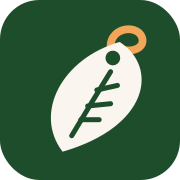
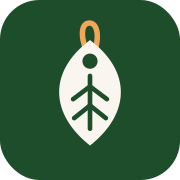
Updates

Changed region(s): [[0.2778, 0.1111, 0.8333, 0.8611], [0.5278, 0.75, 0.5556, 0.7778]]

diff --git a/src/app/pricing/page.tsx b/src/app/pricing/page.tsx
@@ -1,0 +1,95 @@
+import type { Metadata } from "next";
+import Link from "next/link";
+import { supabaseServer, supabaseAdmin } from "@/lib/supabase/server";
+import PlanButtons from "./PlanButtons";
+
+export const dynamic = "force-dynamic";
+export const metadata: Metadata = {
+  title: "Pricing",
+  description: "Your first three drops are free. After that, $10 a month or $60 a year, flat. Groveline never takes a cut of a sale.",
+  alternates: { canonical: "/pricing" },
+};
+
+const included = [
+  "Unlimited drops, with up to 10 photos each",
+  "Your own shop page and link, more than one shop if you need it",
+  "Automatic emails to your followers and subscribers every time you post",
+  "Card payments straight to your bank, with a hold at reservation and charge at pickup",
+  "Shipping on any drop, paid by card, charged when you mark it shipped",
+  "Waitlists when you sell out, pickup reminders to buyers the day before",
+  "A printable pickup sheet and a spreadsheet for every drop",
+  "Live counts so nobody has to ask what's left",
+];
+
+const faq = [
+  ["Do I need to pay to try it?", "No. Post three drops on the house, no card required. If it works for you, pick a plan then."],
+  ["Do you take a cut of my sales?", "Never. Cash or card, big or small, the sale is yours. The subscription is the whole bill."],
+  ["What about card processing fees?", "Stripe charges its normal processing fee on card payments, about 2.9% plus 30 cents, the same as any card reader at a market. That comes out of the seller's side. Groveline adds nothing on top."],
+  ["Can I cancel?", "Any time, from your account settings. You keep access through the end of what you paid for."],
+  ["Is buying free?", "Always. Buyers never pay Groveline anything, and they don't need an account."],
+];
+
+export default async function PricingPage() {
+  const supabase = await supabaseServer();
+  const {
+    data: { user },
+  } = await supabase.auth.getUser();
+  let subscribed = false;
+  if (user) {
+    const { data: b } = await supabaseAdmin().from("billing").select("subscription_status").eq("profile_id", user.id).maybeSingle();
+    subscribed = ["active", "trialing", "past_due"].includes(b?.subscription_status ?? "none");
+  }
+  const stripeOn = !!process.env.STRIPE_SECRET_KEY && !!(process.env.STRIPE_PRICE_ID_MONTHLY || process.env.STRIPE_PRICE_ID);
+  const yearly = !!process.env.STRIPE_PRICE_ID_YEARLY;
+
+  return (
+    <div className="mx-auto max-w-4xl px-4 py-12">
+      <div className="max-w-2xl">
+        <h1 className="text-4xl font-semibold">Simple, and it stays that way</h1>
+        <p className="mt-4 text-lg">
+          Your first three drops are free. After that it&apos;s one flat price, and we never take a cut of what you
+          sell. Buying is free for everyone, always.
+        </p>
+      </div>
+
+      <div className="mt-10">
+        {stripeOn ? (
+          <PlanButtons loggedIn={!!user} subscribed={subscribed} yearlyAvailable={yearly} />
+        ) : (
+          <div className="tag-card p-6">
+            <p className="font-semibold">Plans open soon.</p>
+            <p className="mt-1 text-sm text-muted">Everything is free while we get set up. Post away.</p>
+          </div>
+        )}
+      </div>
+
+      <section className="mt-12" aria-labelledby="included">
+        <h2 id="included" className="text-2xl font-semibold">What a plan gets you</h2>
+        <ul className="mt-4 grid gap-2 sm:grid-cols-2">
+          {included.map((i) => (
+            <li key={i} className="flex gap-3">
+              <span className="mt-2 h-2 w-2 shrink-0 rounded-full bg-leaf" aria-hidden="true" />
+              <span>{i}</span>
+            </li>
+          ))}
+        </ul>
+      </section>
+
+      <section className="mt-12" aria-labelledby="pricing-faq">
+        <h2 id="pricing-faq" className="text-2xl font-semibold">Things people ask</h2>
+        <div className="mt-4 grid gap-4 sm:grid-cols-2">
+          {faq.map(([q, a]) => (
+            <div key={q} className="tag-card p-5">
+              <h3 className="font-semibold">{q}</h3>
+              <p className="mt-2 text-muted">{a}</p>
+            </div>
+          ))}
+        </div>
+      </section>
+
+      <p className="mt-10 text-sm text-muted">
+        Not selling? <Link href="/browse" className="text-grove underline">Go see what&apos;s for sale</Link>.
+      </p>
+    </div>
+  );
+}

diff --git a/src/app/pricing/PlanButtons.tsx b/src/app/pricing/PlanButtons.tsx
@@ -1,0 +1,80 @@
+"use client";
+import { useState } from "react";
+import { useRouter } from "next/navigation";
+import { useToast } from "@/components/Toast";
+
+export default function PlanButtons({
+  loggedIn,
+  subscribed,
+  yearlyAvailable,
+}: {
+  loggedIn: boolean;
+  subscribed: boolean;
+  yearlyAvailable: boolean;
+}) {
+  const [promo, setPromo] = useState("");
+  const [busy, setBusy] = useState<"month" | "year" | null>(null);
+  const toast = useToast();
+  const router = useRouter();
+
+  async function go(interval: "month" | "year") {
+    if (!loggedIn) {
+      router.push("/login?mode=register");
+      return;
+    }
+    setBusy(interval);
+    const res = await fetch("/api/stripe/subscribe", {
+      method: "POST",
+      headers: { "Content-Type": "application/json" },
+      body: JSON.stringify({ interval, promo }),
+    });
+    setBusy(null);
+    const data = await res.json().catch(() => ({}));
+    if (data.url) window.location.href = data.url;
+    else toast(data.error || "Couldn't start checkout. Try again.", "error");
+  }
+
+  if (subscribed) {
+    return (
+      <div className="tag-card p-6 text-center">
+        <p className="font-semibold text-grove">You&apos;re already on a plan.</p>
+        <p className="mt-1 text-sm text-muted">Switch, update your card, or cancel from your account settings.</p>
+        <a href="/dashboard/settings" className="btn btn-outline mt-4">Manage my plan</a>
+      </div>
+    );
+  }
+
+  return (
+    <div>
+      <div className={`grid gap-4 ${yearlyAvailable ? "sm:grid-cols-2" : ""}`}>
+        <div className="tag-card p-6">
+          <p className="font-display text-4xl font-semibold text-grove">$10<span className="text-lg font-normal text-muted"> / month</span></p>
+          <p className="mt-1 text-sm text-muted">Month to month. Stop whenever.</p>
+          <button className="btn btn-outline mt-5 w-full" onClick={() => go("month")} disabled={!!busy}>
+            {busy === "month" ? "One second" : loggedIn ? "Start monthly" : "Sign up, then start monthly"}
+          </button>
+        </div>
+        {yearlyAvailable && (
+          <div className="tag-card border-leaf p-6">
+            <p className="font-display text-4xl font-semibold text-grove">$60<span className="text-lg font-normal text-muted"> / year</span></p>
+            <p className="mt-1 text-sm text-muted">Two months free. Set it and forget it.</p>
+            <button className="btn btn-primary mt-5 w-full" onClick={() => go("year")} disabled={!!busy}>
+              {busy === "year" ? "One second" : loggedIn ? "Start yearly" : "Sign up, then start yearly"}
+            </button>
+          </div>
+        )}
+      </div>
+      <div className="mt-4 flex flex-col items-start gap-2 sm:flex-row sm:items-center">
+        <label htmlFor="promo" className="text-sm text-muted">Have a code?</label>
+        <input
+          id="promo"
+          className="field sm:w-56"
+          placeholder="Enter it here"
+          value={promo}
+          onChange={(e) => setPromo(e.target.value.toUpperCase())}
+          autoCapitalize="characters"
+        />
+      </div>
+    </div>
+  );
+}

diff --git a/src/app/api/stripe/subscribe/route.ts b/src/app/api/stripe/subscribe/route.ts
@@ -5,7 +5,7 @@ import { getStripe, siteUrl } from "@/lib/stripe";
 /* Starts a $10/month subscription checkout. */
 export async function POST(req: Request) {
   const stripe = getStripe();
-  const { interval } = (await req.json().catch(() => ({}))) as { interval?: "month" | "year" };
+  const { interval, promo } = (await req.json().catch(() => ({}))) as { interval?: "month" | "year"; promo?: string };
   const price = interval === "year"
     ? process.env.STRIPE_PRICE_ID_YEARLY
     : process.env.STRIPE_PRICE_ID_MONTHLY || process.env.STRIPE_PRICE_ID;
@@ -27,13 +27,26 @@ export async function POST(req: Request) {
     await admin.from("billing").upsert({ profile_id: user.id, stripe_customer_id: customerId });
   }
 
+  // A promo code typed on our pricing page gets looked up and applied
+  // directly. Otherwise Stripe's own promo box is available at checkout.
+  let discounts: { promotion_code: string }[] | undefined;
+  if (promo && promo.trim()) {
+    try {
+      const codes = await stripe.promotionCodes.list({ code: promo.trim().toUpperCase(), active: true, limit: 1 });
+      if (codes.data[0]) discounts = [{ promotion_code: codes.data[0].id }];
+      else return NextResponse.json({ error: "That code isn't one we recognize." }, { status: 400 });
+    } catch {
+      return NextResponse.json({ error: "Couldn't check that code. Try again." }, { status: 500 });
+    }
+  }
+
   const session = await stripe.checkout.sessions.create({
     mode: "subscription",
     customer: customerId,
     line_items: [{ price, quantity: 1 }],
     metadata: { profile_id: user.id },
     subscription_data: { metadata: { profile_id: user.id } },
-    allow_promotion_codes: true,
+    ...(discounts ? { discounts } : { allow_promotion_codes: true }),
     success_url: `${siteUrl()}/dashboard/new?subscribed=1`,
     cancel_url: `${siteUrl()}/dashboard`,
   });

diff --git a/src/components/Logo.tsx b/src/components/Logo.tsx
@@ -1,21 +1,20 @@
 import Link from "next/link";
 
-/* The mark: a leaf that is also a price tag, string and all. */
+/* The mark: an upright leaf that is also a price tag, string and all. */
 export function GrovelineMark({ size = 34, hole = "#faf6ef" }: { size?: number; hole?: string }) {
   return (
     <svg width={size} height={size} viewBox="0 0 64 64" aria-hidden="true" focusable="false">
       {/* string loop */}
-      <path d="M41 13 C 41 4, 54 3, 55 10 C 55.5 15, 47 16, 44 13" fill="none" stroke="#f2a65a" strokeWidth="3" strokeLinecap="round" />
+      <path d="M31.5 19 C 28 12, 27 4, 31 3 C 36 2, 37 11, 33 19" fill="none" stroke="#f2a65a" strokeWidth="2.6" strokeLinecap="round" />
       {/* leaf body */}
-      <path d="M45 11 C 62 22, 58 48, 20 59 C 7 42, 20 18, 45 11 Z" fill="currentColor" />
+      <path d="M32 61 C 13 46, 12 26, 32 11 C 52 26, 51 46, 32 61 Z" fill="currentColor" />
       {/* tag hole */}
-      <circle cx="42" cy="18" r="3.2" fill={hole} />
+      <circle cx="32" cy="21" r="3.6" fill={hole} />
       {/* veins */}
-      <g fill="none" stroke={hole} strokeWidth="2" strokeLinecap="round">
-        <path d="M41 24 C 36 32, 30 42, 24 52" />
-        <path d="M35 32 L 44 30" />
-        <path d="M31 39 L 41 38" />
-        <path d="M28 45 L 36 45" />
+      <g fill="none" stroke={hole} strokeWidth="2.2" strokeLinecap="round">
+        <path d="M32 28 V53" />
+        <path d="M32 33 L24 39 M32 33 L40 39" />
+        <path d="M32 42 L24.5 48 M32 42 L39.5 48" />
       </g>
     </svg>
   );

diff --git a/src/app/page.tsx b/src/app/page.tsx
@@ -132,8 +132,8 @@ export default async function Home() {
         <div className="mx-auto max-w-6xl px-4 py-16" aria-labelledby="what">
           <h2 id="what" className="text-3xl font-semibold">What people are selling</h2>
           <p className="mt-3 max-w-2xl text-lg">
-            If you make it, grow it, or cook it in batches, there is a place for it here. A dozen loaves
-            works the same as a whole hog. Pick the one that sounds like you.
+            If you make it, grow it, or cook it in batches, there is a place for it here. Pick the one that
+            sounds like you.
           </p>
           <div className="mt-8 grid gap-6 sm:grid-cols-2 lg:grid-cols-4">
             {[

diff --git a/src/app/sitemap.ts b/src/app/sitemap.ts
@@ -7,6 +7,7 @@ export default function sitemap(): MetadataRoute.Sitemap {
     { url: `${base}/browse`, changeFrequency: "hourly", priority: 0.9 },
     { url: `${base}/sell`, changeFrequency: "monthly", priority: 0.8 },
     { url: `${base}/sellers`, changeFrequency: "daily", priority: 0.7 },
+    { url: `${base}/pricing`, changeFrequency: "monthly", priority: 0.8 },
     ...["kitchen", "workshop", "greenhouse", "fundraisers"].map((f) => ({ url: `${base}/for/${f}`, changeFrequency: "monthly" as const, priority: 0.7 })),
     { url: `${base}/privacy`, changeFrequency: "yearly", priority: 0.2 },
     { url: `${base}/terms`, changeFrequency: "yearly", priority: 0.2 },

diff --git a/src/app/dashboard/new/page.tsx b/src/app/dashboard/new/page.tsx
@@ -229,7 +229,7 @@ export default function NewDropPage() {
           <li>Card payments straight to your bank, if you want them</li>
           <li>Pickup day checklists, waitlists, reminders</li>
         </ul>
-        <p className="mt-4 text-center text-sm text-muted">Billing runs through Stripe. Switch plans or cancel any time from Settings.</p>
+        <p className="mt-4 text-center text-sm text-muted">Billing runs through Stripe. Have a code? Use it on the <a href="/pricing" className="text-grove underline">pricing page</a>. Switch plans or cancel any time from Settings.</p>
       </div>
     );
   }

diff --git a/src/components/Footer.tsx b/src/components/Footer.tsx
@@ -17,6 +17,7 @@ export default function Footer() {
           <Link href="/browse" className="hover:underline">Browse drops</Link>
           <Link href="/sellers" className="hover:underline">Sellers</Link>
           <Link href="/sell" className="hover:underline">Start selling</Link>
+          <Link href="/pricing" className="hover:underline">Pricing</Link>
           <Link href="/reservations" className="hover:underline">My reservations</Link>
           <Link href="/login" className="hover:underline">Log in</Link>
           <Link href="/privacy" className="hover:underline">Privacy</Link>

diff --git a/src/app/dashboard/page.tsx b/src/app/dashboard/page.tsx
@@ -76,7 +76,7 @@ export default async function DashboardPage() {
         <p className="mt-2 text-sm">
           <span className="font-medium">{Math.min(3, totalDrops ?? 0)} of 3 free drops used.</span>{" "}
           {(totalDrops ?? 0) >= 3 ? "Pick a plan to keep posting." : "After that, it's $10 a month or $60 a year."}{" "}
-          <Link href="/dashboard/settings" className="text-grove underline">Plans</Link>
+          <Link href="/pricing" className="text-grove underline">See plans</Link>
         </p>
       )}
       <p className="mt-2 text-sm">

diff --git a/src/components/Header.tsx b/src/components/Header.tsx
@@ -10,6 +10,7 @@ const links = [
   { href: "/browse", label: "Browse drops" },
   { href: "/sellers", label: "Sellers" },
   { href: "/sell", label: "Start selling" },
+  { href: "/pricing", label: "Pricing" },
 ];
 
 export type HeaderUser = { name: string; avatarUrl: string | null; slug: string; shopCount: number; isAdmin: boolean } | null;

diff --git a/README.md b/README.md
@@ -46,6 +46,16 @@ Free, and reuses the same Cloudflare account already handling your DNS. In the C
 
 Set `STRIPE_SECRET_KEY` and `STRIPE_WEBHOOK_SECRET`. In the Stripe dashboard create one product (the seller subscription) with two recurring prices, $10 monthly and $60 yearly, and put their ids (start with `price_`) in `STRIPE_PRICE_ID_MONTHLY` and `STRIPE_PRICE_ID_YEARLY`. Yearly is optional; leave it blank to offer monthly only. Add a webhook endpoint at `https://groveline.io/api/stripe/webhook` listening for `checkout.session.completed`, `checkout.session.expired`, `customer.subscription.updated`, `customer.subscription.deleted`, and `account.updated`. Enable Stripe Connect (Express) in your Stripe settings so sellers can onboard.
 
+Stripe dashboard checklist for card payments to work:
+
+1. Settings, Connect, click Get started and complete the platform profile (your business info, what you're building). Stripe won't let sellers onboard until this is done.
+2. Settings, Connect, Branding: add the Groveline name, icon, and green so sellers see it during onboarding.
+3. Developers, Webhooks: add `https://groveline.io/api/stripe/webhook` with the five events listed above. Copy the signing secret into `STRIPE_WEBHOOK_SECRET`.
+4. Flip the dashboard to Live mode and make sure the keys in Vercel are the live ones (`sk_live_...`), not test keys.
+5. Post a real drop, turn on card payments in Settings, complete the Express onboarding yourself, and reserve it with a real card from another browser. Then mark it picked up and watch the charge land.
+
+Promo codes: in the Stripe dashboard go to Product catalog, Coupons, and create one (for example $10 off, duration Once, which equals one free month on the monthly plan). Then on that coupon click Add promotion code and set the code buyers type, like `LADIGA`. Sellers can enter it on `/pricing` or in Stripe's own box at checkout.
+
 Connected accounts are Express by default (a short in-app signup for sellers). Stripe bills the platform about $2 per month for each Express account that gets a payout that month. Set `STRIPE_CONNECT_TYPE=standard` to switch to Standard accounts, which have no monthly fee but ask the seller to create a full Stripe login. Either way Stripe's card processing fee (about 2.9% plus 30 cents) comes out of each card payment, and Groveline takes nothing.
 
 How it works: sellers set up payouts from Settings and money goes straight to their bank. When a buyer pays by card, a hold is placed at reservation and only captured when the seller marks the claim picked up. Removing a claim or the buyer cancelling releases the hold. Leave Stripe blank and everything runs cash-only with no subscription gate.
